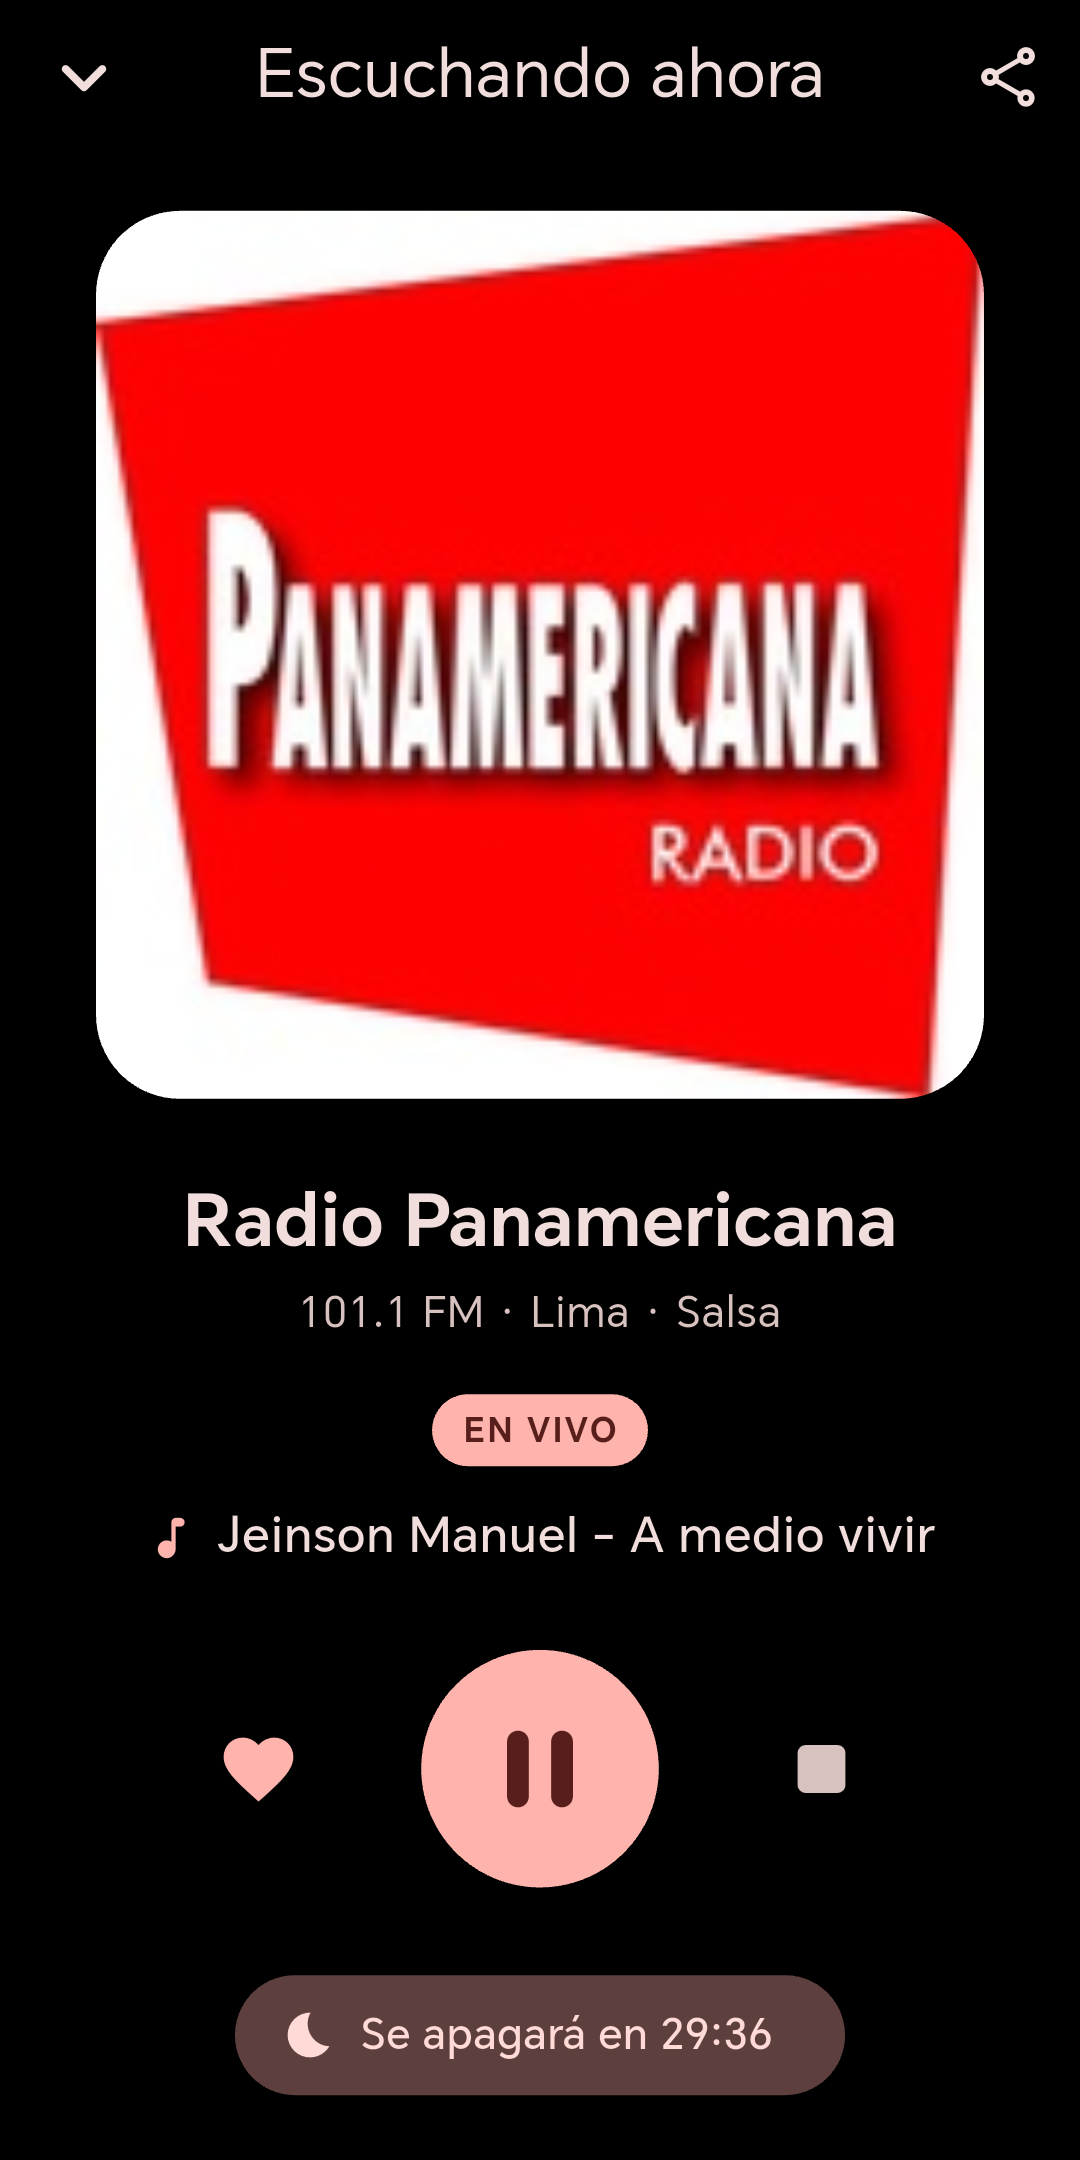
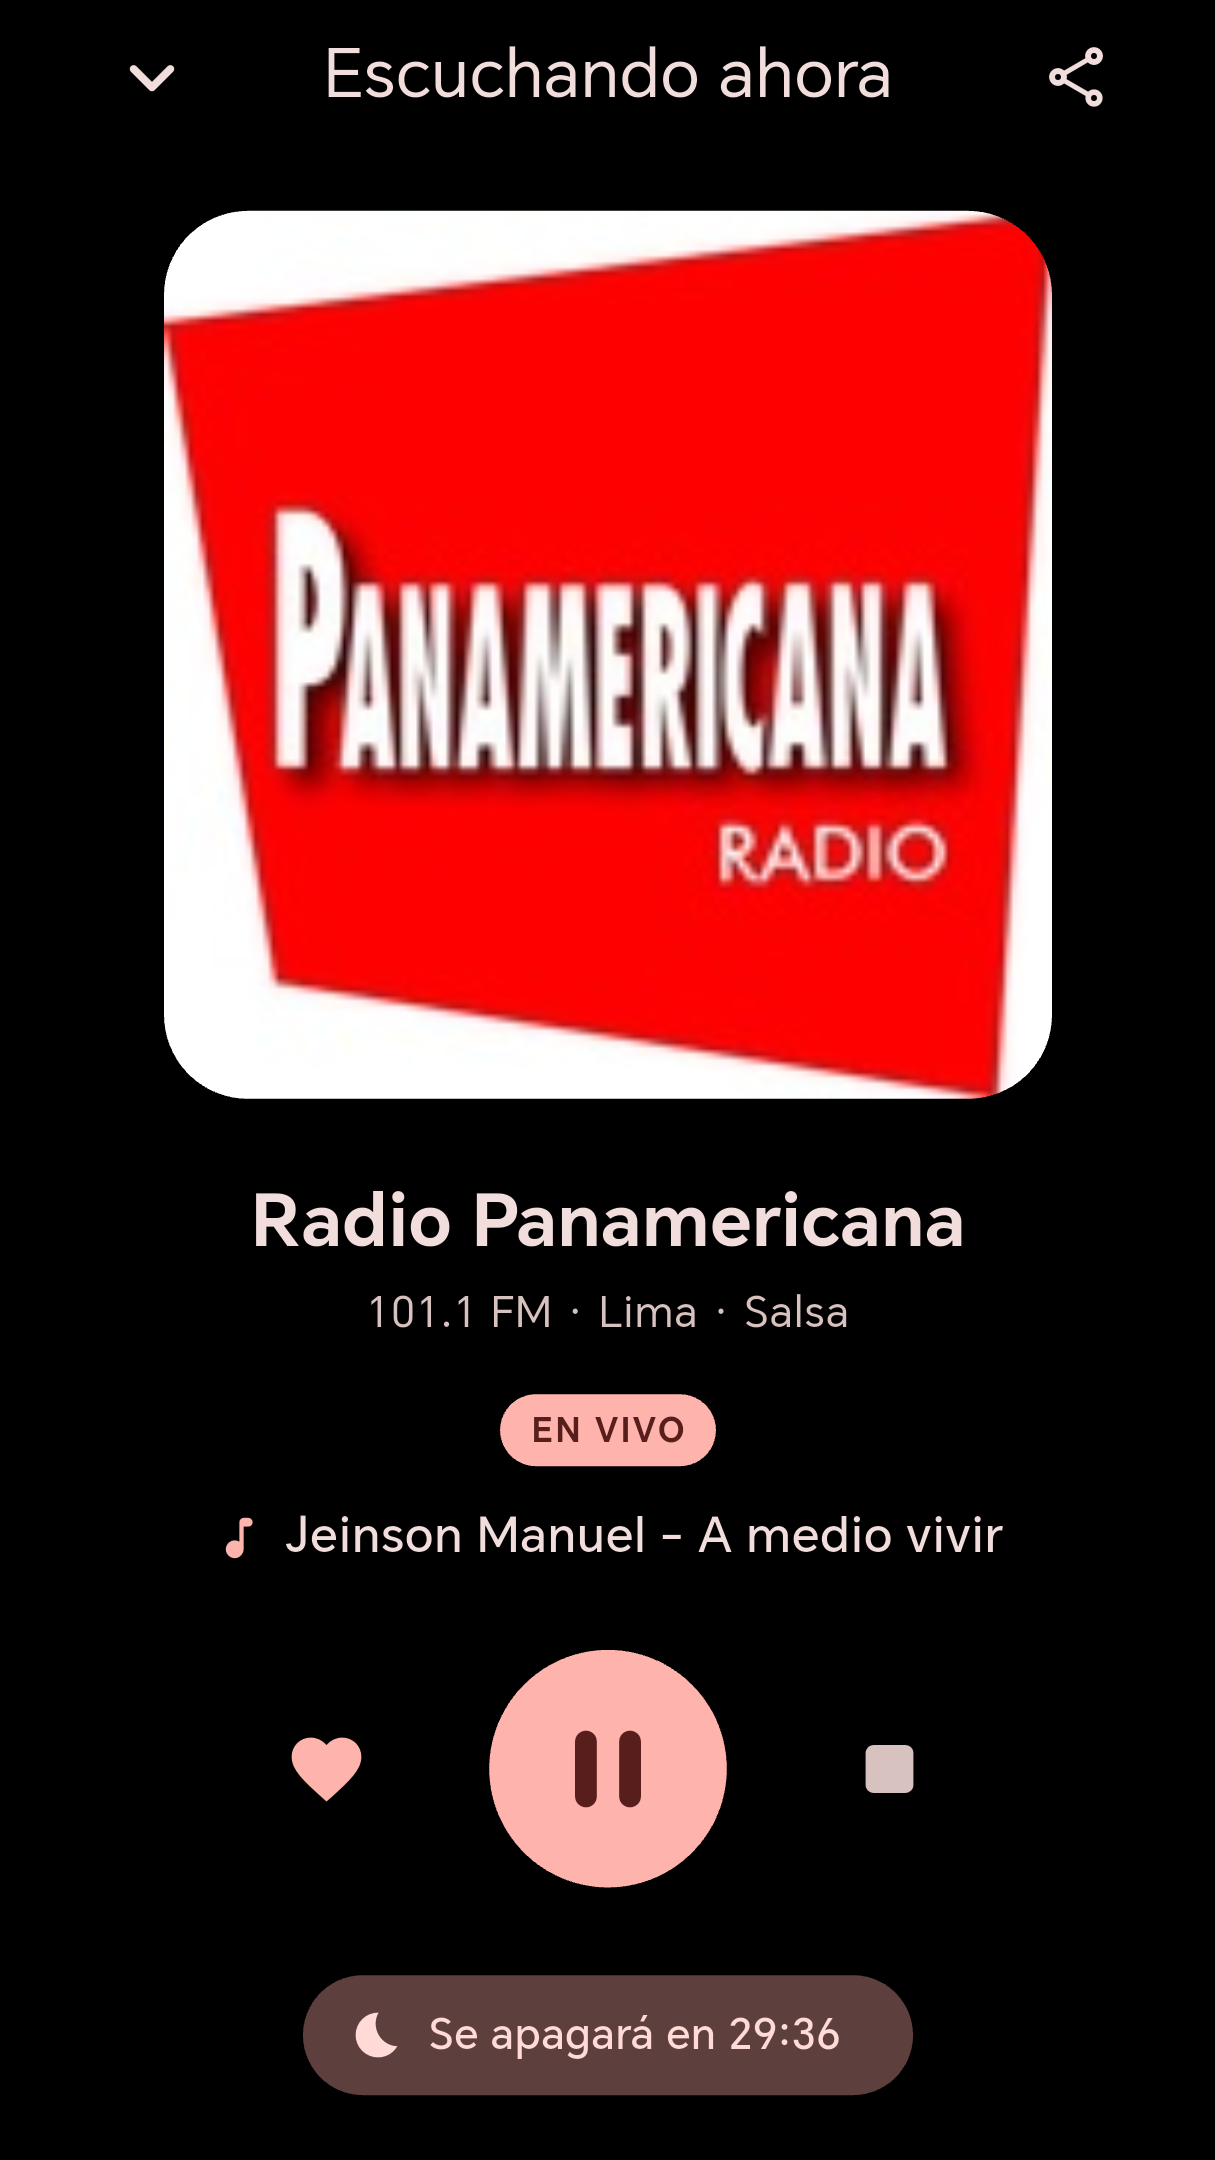
Enlazar la política de privacidad dentro de la app y adaptar capturas a 9:16
Google Play exige el enlace a la política también dentro de la app: el menú
de la barra superior abre la política en el navegador y muestra "Acerca de"
con las licencias. Las capturas de la ficha se ensanchan a 1215x2160 porque
Play solo acepta proporción 16:9 o 9:16.

diff --git a/lib/ui/screens/home_screen.dart b/lib/ui/screens/home_screen.dart
@@ -1,5 +1,6 @@
 import 'package:flutter/material.dart';
 import 'package:provider/provider.dart';
+import 'package:url_launcher/url_launcher.dart';
 
 import '../../core/constants.dart';
 import '../../models/station_model.dart';
@@ -29,7 +30,11 @@ class HomeScreen extends StatelessWidget {
               Flexible(child: Text(AppConstants.appName)),
             ],
           ),
-          actions: const [_ThemeMenuButton(), _ShareAppButton()],
+          actions: const [
+            _ThemeMenuButton(),
+            _ShareAppButton(),
+            _MoreMenuButton(),
+          ],
           bottom: const TabBar(
             tabs: [
               Tab(icon: Icon(Icons.cell_tower_rounded), text: 'Emisoras'),
@@ -105,6 +110,65 @@ class _ShareAppButton extends StatelessWidget {
           .read<ShareService>()
           .shareApp(origin: shareOriginOf(context)),
     );
+  }
+}
+
+enum _MoreAction { privacy, about }
+
+/// Menú con la política de privacidad (Google Play exige enlazarla dentro de
+/// la app) y la información de la app con sus licencias.
+class _MoreMenuButton extends StatelessWidget {
+  const _MoreMenuButton();
+
+  @override
+  Widget build(BuildContext context) {
+    return PopupMenuButton<_MoreAction>(
+      tooltip: 'Más opciones',
+      onSelected: (action) {
+        switch (action) {
+          case _MoreAction.privacy:
+            _openPrivacyPolicy(context);
+          case _MoreAction.about:
+            showAboutDialog(
+              context: context,
+              applicationName: AppConstants.appName,
+              applicationIcon: const Icon(Icons.radio_rounded, size: 40),
+              applicationLegalese:
+                  'Directorio independiente de radios del Perú. Los nombres, '
+                  'logos y transmisiones pertenecen a cada emisora.',
+            );
+        }
+      },
+      itemBuilder: (context) => const [
+        PopupMenuItem(
+          value: _MoreAction.privacy,
+          child: ListTile(
+            leading: Icon(Icons.privacy_tip_outlined),
+            title: Text('Política de privacidad'),
+          ),
+        ),
+        PopupMenuItem(
+          value: _MoreAction.about,
+          child: ListTile(
+            leading: Icon(Icons.info_outline),
+            title: Text('Acerca de'),
+          ),
+        ),
+      ],
+    );
+  }
+
+  Future<void> _openPrivacyPolicy(BuildContext context) async {
+    final messenger = ScaffoldMessenger.of(context);
+    final opened = await launchUrl(
+      Uri.parse(AppConstants.privacyPolicyUrl),
+      mode: LaunchMode.externalApplication,
+    );
+    if (!opened) {
+      messenger.showSnackBar(const SnackBar(
+        content: Text('No se pudo abrir ${AppConstants.privacyPolicyUrl}'),
+      ));
+    }
   }
 }
 

diff --git a/lib/core/constants.dart b/lib/core/constants.dart
@@ -48,6 +48,11 @@ abstract final class AppConstants {
   /// esté vacío no se incluye en los mensajes de compartir.
   static const String appStoreUrl = '';
 
+  /// Política de privacidad publicada con GitHub Pages (carpeta `docs/`).
+  /// Google Play exige enlazarla en la ficha y dentro de la app.
+  static const String privacyPolicyUrl =
+      'https://abelreyna.github.io/Proyecto-Radio/privacidad.html';
+
   /// Esquema propio: `radiosperumix://station/<id>` abre la app y reproduce la
   /// emisora indicada.
   static const String deepLinkScheme = 'radiosperumix';

diff --git a/play_store/GUIA_PUBLICACION.md b/play_store/GUIA_PUBLICACION.md
@@ -7,7 +7,7 @@ Todo lo que hay que subir está en esta carpeta (`play_store/`). Los pasos marca
 | `app-release.aab` | El paquete de la app que se sube a Play (se genera con `flutter build appbundle`) |
 | `icon-512.png` | Ícono de la ficha (512 × 512) |
 | `feature-graphic.png` | Imagen destacada (1024 × 500) |
-| `screenshots/*.png` | Capturas de teléfono (1080 × 2160) |
+| `screenshots/*.png` | Capturas de teléfono (1215 × 2160, proporción 9:16 que exige Play) |
 
 ---
 
